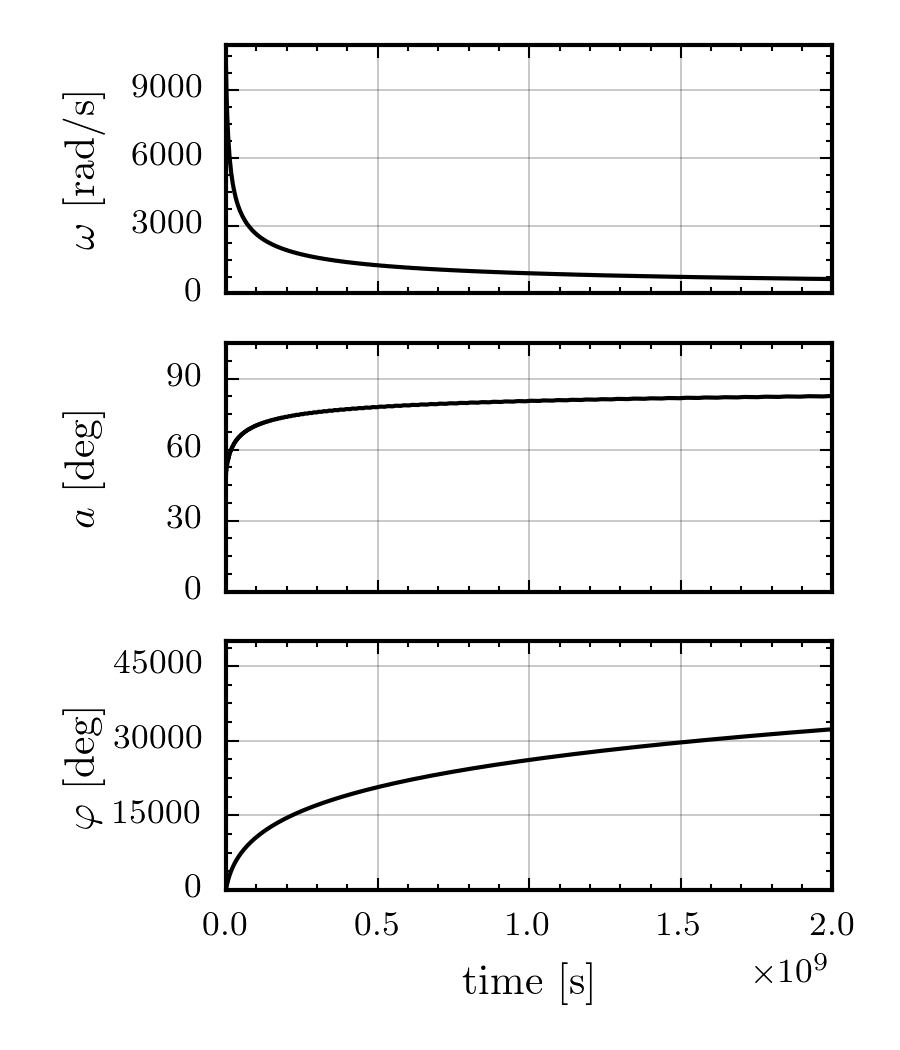
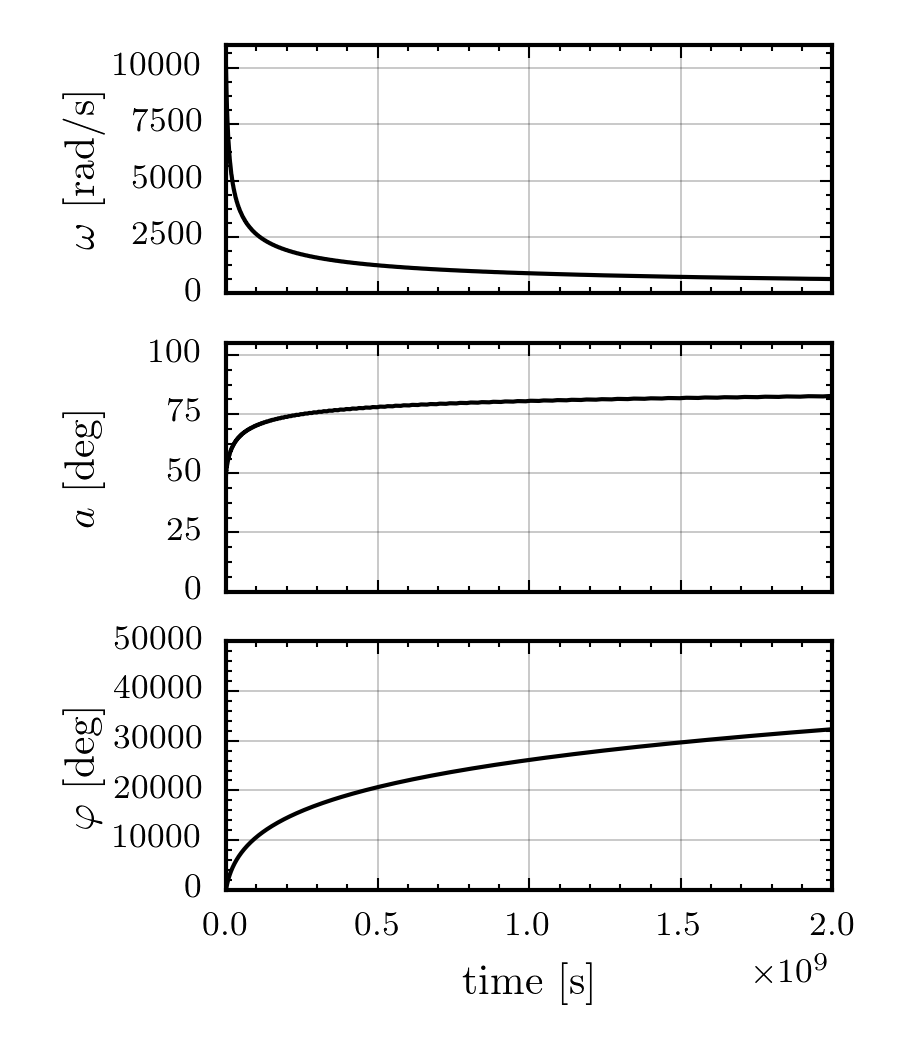
Final set of corrections to C3
1) Updates all plots to the new style and improves the tables

diff --git a/rotating_frame/rotating_frame.tex b/rotating_frame/rotating_frame.tex
@@ -256,11 +256,11 @@ for each ordering of the timescales.
 \renewcommand{\arraystretch}{1.2}
 \begin{table}[h]
 \centering
-\begin{tabular}[h]{|l|c|c|c|c|c|}\hline
-&$\epsilon_{\mathrm{I}}$ & $\epsilon_{\mathrm{A}} $ & $B_{0} $[Gauss] & $\tau_{\mathrm{S}}$ [s] & $ \tau_{\mathrm{P}}$  [s] \\ \hline
-Pulsar A & $ {1.0}\times 10^{-9} $ & $ {5.0}\times 10^{-11} $ & $ {1.3}\times 10^{13} $ & $ {9.0}\times 10^{6} $ & $ {9.8}\times 10^{5} $\\
-Pulsar B & $ {4.0}\times 10^{-11} $ & $ {5.0}\times 10^{-11} $ & $ {1.3}\times 10^{13} $ & $ {9.0}\times 10^{6} $ & $ {2.4}\times 10^{7} $\\
-Pulsar C & $ {1.0}\times 10^{-15} $ & $ {5.0}\times 10^{-11} $ & $ {1.3}\times 10^{13} $ & $ {9.0}\times 10^{6} $ & $ {9.8}\times 10^{11} $\\ \hline
+\begin{tabular}[h]{|c|c|c|c|c|c|}\hline
+Star &$\epsilon_{\mathrm{I}}$ & $\epsilon_{\mathrm{A}} $ & $B_{0} $[Gauss] & $\tau_{\mathrm{S}}$ [s] & $ \tau_{\mathrm{P}}$  [s] \\ \hline
+A & $ {1.0}\times 10^{-9} $ & $ {5.0}\times 10^{-11} $ & $ {1.3}\times 10^{13} $ & $ {9.0}\times 10^{6} $ & $ {9.8}\times 10^{5} $\\
+B & $ {4.0}\times 10^{-11} $ & $ {5.0}\times 10^{-11} $ & $ {1.3}\times 10^{13} $ & $ {9.0}\times 10^{6} $ & $ {2.4}\times 10^{7} $\\
+C & $ {1.0}\times 10^{-15} $ & $ {5.0}\times 10^{-11} $ & $ {1.3}\times 10^{13} $ & $ {9.0}\times 10^{6} $ & $ {9.8}\times 10^{11} $\\ \hline
 \end{tabular}
 \caption{Table of relevant values for the selected points. In calculating the
     magnetic fields and timescales, we have used a canonical value of
@@ -453,7 +453,7 @@ which are parameterised by the sign of $\dot{A}$:
 \item $\dot{A}>0$ The sphere grows with respect to the ellipsoid. In this case,
     the intersection circles will `close up' around the $\z$ axis. This
     agrees with the solution for $\chi=30^{\circ}$ given in
-    figure~\ref{fig: neutron star A_NA comparison}(a). The angle between
+    Figure~\ref{fig: neutron star A_NA comparison}(a). The angle between
     $\boldsymbol{\omega}$ and the $\z$ axis tends to zero while $\varphi$
     monotonically increases. This describes the spin-vectors following a circle
     about the $\z$ axis, which gradually decreases in radius.
@@ -689,8 +689,8 @@ $\hat{\boldsymbol{z}}$ axis. $\beta$ is then given by
               {2\epsA\sin\chi \cos\chi}\right).
 \label{eqn: beta}
 \end{equation}
-A schematic of the various angles and axes is given in
-figure~\ref{fig: schematic}
+In Figure~\ref{fig: schematic}, we provide a schematic of the various angles
+and relating the effective body frame to the body frame axes.
 \begin{figure}[ht]
 \centering
  \input{\thisdir/BetaSketch}
@@ -706,7 +706,7 @@ which is defined to be into the page.}
 The effective body frame is a simple rotation of the axis defined by the moment
 of inertia tensor to accommodate the effects of the anomalous torque.
 To understand when this becomes significant, we plot $\beta$ as a function of
-$|\epsA/\epsI|$ in figure~\ref{fig: beta}. When $|\epsA \ll
+$|\epsA/\epsI|$ in Figure~\ref{fig: beta}. When $|\epsA \ll
 \epsI|$, such that the anomalous torque effects are negligible, we
 recover the usual moment of inertia tensor. That is, $\beta=0$ or
 $\beta=\pi/2$, dependent on the sign of $\epsI$. This is a consequence
@@ -749,15 +749,14 @@ neutron stars.
 \centering
 \tabcolsep=0.11cm
 	\begin{tabular}[ht]{|c|c|c|c|c|c|c|c|c|}\hline
-Neutron star &  $\epsI$  & $\epsA $ & 	$B_{0} \; $[Gauss] & $\tauS$ [s] & $\tauA$ [s] & $ \tauP$  [s] & $\beta (\chi=30^{\circ})$ & $\beta(\chi=75^{\circ})$ \\ \hline
-A & $  1.0{\times} 10^{-9}  $ & $  5{\times} 10^{-9}  $ & $  1.3{\times} 10^{13}  $ & $  3.6{\times} 10^{8}  $ & $  1.3{\times} 10^{7}  $ & $  6.3{\times} 10^{5}  $ & $ -1.27^{\circ} $& $ -0.7^{\circ} $ \\
-B & $  0.4{\times} 10^{-10}  $ & $  5{\times} 10^{-9}  $ & $  1.3{\times} 10^{13}  $ & $  3.6{\times} 10^{8}  $ & $  1.3{\times} 10^{7}  $ & $  1.6{\times} 10^{7}  $ & $ -35.447^{\circ} $& $ -8.35^{\circ} $ \\
-C & $  1.0{\times} 10^{-15}  $ & $  5{\times} 10^{-9}  $ & $  1.3{\times} 10^{13}  $ & $  3.6{\times} 10^{8}  $ & $  1.3{\times} 10^{7}  $ & $  6.3{\times} 10^{11}  $ & $ -60.0^{\circ} $& $ -15.0^{\circ} $ \\ \hline
-	\end{tabular}}
-\caption{Table of relevant values for the selected points. In calculating the
-    magnetic fields and timescales, we have used a canonical value of
-    $R=1\times10^{6}$~cm for the radius and the initial value
-    of the spin frequency, $\omega_{0} = 1\times10^{4}$ rads/s.}
+Star &  $\epsI$  & $\epsA $ & 	$B_{0} \; $[Gauss] & $\tauS$ [s] & $\tauA$ [s] & $ \tauP$  [s] & $\beta (\chi=30^{\circ})$ & $\beta(\chi=75^{\circ})$ \\ \hline
+A & $ {1.0}{\times} 10^{-9} $ & $ {5.0}{\times} 10^{-11} $ & $ {1.3}{\times} 10^{13} $ & $ {9.0}{\times} 10^{6} $ & $ {1.3}{\times} 10^{7} $ & $ {9.8}{\times} 10^{5} $ & $ \text{-}1.3^{\circ} $& $ \text{-}0.69^{\circ} $ \\
+B & $ {4.0}{\times} 10^{-11} $ & $ {5.0}{\times} 10^{-11} $ & $ {1.3}{\times} 10^{13} $ & $ {9.0}{\times} 10^{6} $ & $ {1.3}{\times} 10^{7} $ & $ {2.4}{\times} 10^{7} $ & $ \text{-}35.0^{\circ} $& $ \text{-}8.4^{\circ} $ \\
+C & $ {1.0}{\times} 10^{-15} $ & $ {5.0}{\times} 10^{-11} $ & $ {1.3}{\times} 10^{13} $ & $ {9.0}{\times} 10^{6} $ & $ {1.3}{\times} 10^{7} $ & $ {9.8}{\times} 10^{11} $ & $ \text{-}60.0^{\circ} $& $ \text{-}15.0^{\circ} $ \\ \hline
+\end{tabular}}
+\caption{Table of relevant values for the selected points updated from
+Table~\ref{tab: A B C params} to include the value of $\beta$, as defined in
+Eqn.~\eqref{eqn: beta}.}
 \label{tab: A B C params beta}
 \end{table}
 
@@ -787,7 +786,7 @@ means that only three physical orderings exist:
 \end{enumerate}
 
 We can therefore update the phase space of possible solutions with the
-additional anomalous timescale; the result is given in figure~\ref{fig: phase
+additional anomalous timescale; the result is given in Figure~\ref{fig: phase
 space}.
 
 \begin{figure}[ht]
@@ -802,20 +801,24 @@ space}.
 \subsubsection{Neutron star A in region \texorpdfstring{$\tauS>\tauA>\tauP$}{}}
 \label{sec: A}
 
-We expect the alignment of the spin axis to agree with the findings in section
-\ref{sec: A_NA} and study the changes in behaviour due to the introduction of
-the anomalous torque. Working in the effective body frame rotates the
-solutions by a few degrees as shown in Table~\ref{tab: A B C params beta}.
-Plotted in figure~\ref{fig: neutron star A} are the spherical coordinates of the
-spin-vector in the effective body. This can be compared with the result
-in figure~\ref{fig: neutron star A_NA}, which is the same system without the anomalous
-torque.
+We expect the alignment of the spin axis to agree with the findings in
+Section~\ref{sec: A_NA} and study the changes in behaviour due to the
+introduction of the anomalous torque. Working in the effective body frame
+rotates the solutions (for star A) by a few degrees as shown in Table~\ref{tab:
+A B C params beta}.  Plotted in Figure~\ref{fig: neutron star A} are the
+spherical coordinates of the spin-vector in the effective body. This can be
+compared with the result in Figure~\ref{fig: neutron star A_NA}, which is the
+same system without the anomalous torque.
 
 \begin{figure}
 \centering
 \begin{tabular}{cc}
-    \subfloat[$\chi=30^{\circ}<\chi_{\textrm{cr}}$]{\includegraphics[width=0.45\textwidth]{{Spherical_Plot_Transform_chi_30.0_epsI_1.0e-9_epsA_5.0e-11_omega0_1.0e4_eta_1.0e-4}.png}} &
-    \subfloat[$\chi=70^{\circ}>\chi_{\textrm{cr}}$]{\includegraphics[width=0.45\textwidth]{{Spherical_Plot_Transform_chi_75.0_epsI_1.0e-9_epsA_5.0e-11_omega0_1.0e4_eta_1.0e-4}.png}}
+    \subfloat[$\chi=30^{\circ}<\chi_{\textrm{cr}}$]{\includegraphics[width=0.45\textwidth]
+{{Spherical_Plot_Transform_one-component-model_eta_0.00e+00_chi0_3.0000000000e+01_omega0_1.00e+04_epsI3_1.00e-09_epsA_5.00e-11_a0_5.0000000000e+01_T_1.00e+10_epsI1_0.00e+00_AnomTorque_1}.png}} &
+% {{Spherical_Plot_Transform_chi_30.0_epsI_1.0e-9_epsA_5.0e-11_omega0_1.0e4_eta_1.0e-4}.png}} &
+    \subfloat[$\chi=70^{\circ}>\chi_{\textrm{cr}}$]{\includegraphics[width=0.45\textwidth]
+{{Spherical_Plot_Transform_one-component-model_eta_0.00e+00_chi0_7.5000000000e+01_omega0_1.00e+04_epsI3_1.00e-09_epsA_5.00e-11_a0_5.0000000000e+01_T_1.00e+10_epsI1_0.00e+00_AnomTorque_1}.png}}
+%{{Spherical_Plot_Transform_chi_75.0_epsI_1.0e-9_epsA_5.0e-11_omega0_1.0e4_eta_1.0e-4}.png}}
 \end{tabular}
 \caption{Plot of the spherical coordinates of the spin-vector during the
 spin-down of neutron star A.}
@@ -824,7 +827,7 @@ spin-down of neutron star A.}
 
 The final state alignment agrees well with results neglecting the anomalous
 torque for both values of $\chi$. For $\chi = 30^{\circ}$, the intermediate
-behaviour appears similar to those shown in section~\ref{sec: A_NA}. For
+behaviour appears similar to those shown in Section~\ref{sec: A_NA}. For
 $\chi=75^{\circ}$, we have a large discontinuity in the
 solution suggesting a significant difference between solutions when including
 the anomalous torque. To understand the cause of this, we return to the
@@ -853,12 +856,12 @@ bounding the radius of the sphere by
 2E\lambda_{-}<J^{2}<2E\lambda_{+}.
 \end{equation}
 
-In the case of a biaxial moment of inertia, we found that solution for which both
-conservation laws are satisfied, corresponded to circles around the $\z$ axis.
+In the case of a biaxial moment of inertia, we found that the solution for which both
+conservation laws are satisfied corresponded to circles around the $\z$ axis.
 Now that we have a triaxial moment of inertia tensor (due to the addition of the anomalous torque),
 the solutions correspond to the intersection of the triaxial ellipsoid with the
 sphere, for which there are three distinct types of
-intersections as drawn in figure~\ref{fig: sphere ellipsoid}.
+intersections as drawn in Figure~\ref{fig: sphere ellipsoid}.
 \begin{figure}[ht]
 \centering
 \begin{tabular}{ccc}
@@ -893,7 +896,7 @@ the radius of the sphere and the sizes of the three semi-axes of the ellipsoid:
 
 Now that we have understood the possible types of solution via the intersections
 of the sphere and ellipsoid, we can understand the cause of the unusual behaviour
-in Figure~\eqref{fig: neutron star A}(b). First, we note that
+in Figure~\ref{fig: neutron star A}(b). First, we note that
 all simulations begin in the same initial state. As previously observed,
 changing $\chi$ through the critical value changes the sign of $\dot{A}$ and
 hence whether the sphere will grow or shrink with respect to the ellipsoid. So
@@ -914,12 +917,12 @@ In Figure~\ref{fig: neutron star A}(b), the discontinuity is in fact exactly the
 when the solution changes the axis of precession.
 
 To better understand this, we plot the data from the $\chi=75^{\circ}$
-simulation (\ref{fig: neutron star A}(b)) in figure~\ref{fig: neutron star A
+simulation (Figure~\ref{fig: neutron star A}(b)) in Figure~\ref{fig: neutron star A
 3D}. Firstly in (a), we project the spherical coordinates onto the unit sphere
 and choose three short sections of data. This shows that at early times (in
 blue) the solution precesses about the $\3$ axis. During the discontinuity (in
 red) the solution shows similarities with the $J^{2}=2EI_{0}$ case from
-figure~\ref{fig: sphere ellipsoid}. Finally, at late times, in black, the
+Figure~\ref{fig: sphere ellipsoid}. Finally, at late times, in black, the
 solution precesses about the~$\1$~axis. In Figure~\ref{fig: neutron star A
 3D}(b) we also plot the solution in 3D during the apparent discontinuity. This
 again shows that the solution goes through a change of the axis about which it
@@ -952,30 +955,31 @@ $a$ tending to a constant, non-zero value with the nutation amplitude
 spin-vector has not aligned with a principal axis of the moment of inertia,
 this was interpreted as the spin-vector undergoing persistent precession.
 Working in the body frame axis, we confirm that $a\ne\pi/2$ at the end of the
-evolution in figure~\ref{fig: neutron star B}(a).
+evolution in Figure~\ref{fig: neutron star B}(a).
 
-Transforming to the effective body frame in Figure~\ref{fig: neutron star B}(b), we find
-that the spin-vector in fact aligns with the principal axis of the effective
-moment of inertia tensor ($a' \rightarrow \pi /2$).  Therefore, the persistent
-precession angle found by Melatos is precisely the angle $\beta$.  The
-spin-vector has aligned with the principal axis of the effective
+Transforming to the effective body frame in Figure~\ref{fig: neutron star
+B}(b), we find that the spin-vector in fact aligns with the principal axis of
+the effective moment of inertia tensor ($a' \rightarrow \pi /2$).  Therefore,
+the persistent precession angle found by Melatos is precisely the angle
+$\beta$.  The spin-vector has aligned with the principal axis of the effective
 moment of inertia tensor associated with the smallest eigenvalue.  Since both
-the polar angle $a'$ and azimuthal angle $\varphi'$ are constant, we argue
-that the angular velocity is constant and this is not persistent precession:
-the spin-vector always aligns with the effective body frame and in doing so
-the precession of the body is damped.
+the polar angle $a'$ and azimuthal angle $\varphi'$ are constant (this is also
+true in the body frame), we argue that the angular velocity is constant and
+this is not persistent precession: the spin-vector always aligns with the
+effective body frame and in doing so the precession of the body is damped.
 
 \begin{figure}[ht]
 \centering
 \begin{tabular}{cc}
     \subfloat[In the body frame axis]
              {\includegraphics[width=0.45\textwidth]
-             {{Spherical_Plot_chi_75.0_epsI_4.0e-11_epsA_5.0e-11_omega0_1.0e4_t1_2.0e8}.png}} &
+{{Spherical_Plot_one-component-model_eta_0.00e+00_chi0_7.5000000000e+01_omega0_1.00e+04_epsI3_4.00e-11_epsA_5.00e-11_a0_5.0000000000e+01_T_2.00e+08_n_1000_epsI1_0.00e+00_AnomTorque_1}.png}}
     \subfloat[In the effective body frame axis]
              {\includegraphics[width=0.45\textwidth]
-             {{Spherical_Plot_Transform_chi_75.0_epsI_4.0e-11_epsA_5.0e-11_omega0_1.0e4_t1_2.0e8}.png}}
+{{Spherical_Plot_Transform_one-component-model_eta_0.00e+00_chi0_7.5000000000e+01_omega0_1.00e+04_epsI3_4.00e-11_epsA_5.00e-11_a0_5.0000000000e+01_T_2.00e+08_n_1000_epsI1_0.00e+00_AnomTorque_1}.png}}
 \end{tabular}
-\caption{Plot of the spherical coordinates of $\boldsymbol{\omega}$ for neutron star B.
+\caption{Plot of the spherical coordinates of the spin-vector during the spin-down
+         of neutron star B.
          Crucially, at late times the polar angles $a$ and $a'$ differ by a
          factor $8.35^{\circ}$, the value of $\beta$ in Table~\ref{tab: A B C params beta}.}
 \label{fig: neutron star B}
@@ -986,8 +990,8 @@ the precession of the body is damped.
 \label{sec: C}
 
 In Figure~\ref{fig: neutron star C}, for all values of $\chi$, the spin-vector is found
-to align with the effective body frame $\1$ axis.  In this limit ($\epsA \gg
-\epsI$ and so from figure~\ref{fig: beta}), we see that the $\1$ axis
+to align with the effective body frame $\1$ axis.  In this limit where $\epsA \gg
+\epsI$, from Figure~\ref{fig: beta}, we see that the $\1$ axis
 aligns with the magnetic dipole. This agrees with the results for a spherical
 star in which $\epsI \rightarrow 0$. The addition of the anomalous
 torque introduces oscillations on the anomalous torque timescale.
@@ -996,12 +1000,12 @@ torque introduces oscillations on the anomalous torque timescale.
 \centering
 \begin{tabular}{cc}
     \subfloat[$\chi=30^{\circ}<\chi_{\textrm{cr}}$]{\includegraphics[width=0.45\textwidth]
-             {{Spherical_Plot_Transform_chi_30.0_epsI_1.0e-15_epsA_5.0e-11_omega0_1.0e4_t1_1e8}.png}} &
+{{Spherical_Plot_Transform_one-component-model_eta_0.00e+00_chi0_3.0000000000e+01_omega0_1.00e+04_epsI3_1.00e-15_epsA_5.00e-11_a0_5.0000000000e+01_T_1.00e+08_n_1000_epsI1_0.00e+00_AnomTorque_1}.png}}
     \subfloat[$\chi=75^{\circ}>\chi_{\textrm{cr}}$]{\includegraphics[width=0.45\textwidth]
-             {{Spherical_Plot_Transform_chi_75.0_epsI_1.0e-15_epsA_5.0e-11_omega0_1.0e4_t1_1e8}.png}}
+{{Spherical_Plot_Transform_one-component-model_eta_0.00e+00_chi0_7.5000000000e+01_omega0_1.00e+04_epsI3_1.00e-15_epsA_5.00e-11_a0_5.0000000000e+01_T_1.00e+08_n_1000_epsI1_0.00e+00_AnomTorque_1}.png}}
 \end{tabular}
-\caption{Plot of the spherical coordinates of $\boldsymbol{\omega}$ for neutron star
-C. }
+\caption{Plot of the spherical coordinates of the spin-vector during the
+spin-down of neutron star C.}
 \label{fig: neutron star C}
 \end{figure}
 
@@ -1049,7 +1053,7 @@ this thesis.
 %
 %Using a large value of the initial spin period will skew the phase diagrams in
 %Figure~\ref{fig: phase space}. We therefore present a more realistic phase
-%diagram in figure~\ref{fig: phase space for actual spin frequency} for a
+%diagram in Figure~\ref{fig: phase space for actual spin frequency} for a
 %realistic spin frequency of $\nu=1.6$~Hz. The strongest candidates displaying a
 %periodic signal, which may be explained by precession, were collected in
 %\citet{Lyne2010}. The 18 neutron stars where listed along with their: spin frequency,
@@ -1081,7 +1085,7 @@ this thesis.
 %are due to precession.}
 %\label{fig: phase space for actual spin frequency}
 %\end{figure}
-%Plotting the results in figure~\ref{fig: phase space for actual spin frequency} we observe that all neutron stars exist in Region A of the phase diagram.
+%Plotting the results in Figure~\ref{fig: phase space for actual spin frequency} we observe that all neutron stars exist in Region A of the phase diagram.
 %
 %
 %\subsection{Future work}
@@ -1112,9 +1116,9 @@ timescales as
 \begin{align}
 \tauP(t)&=\frac{2\pi}{\epsilon_{I}\omega(t)}, \\
 \tauA(t)&=\frac{2\pi}{\epsilon_{A}\omega(t)}, \\
-\tauS(t)&=\frac{3c}{2R}\frac{2\pi}{\epsilon_{A}\omega(t)^{2}},\\
+\tauS(t)&=\frac{3c}{2R}\frac{2\pi}{\epsilon_{A}\omega(t)^{2}},
 \end{align}
-only $\tauS$ could `cross' with the other two timescales since the spin-down
+only $\tauP$ could `cross' with the other two timescales since the spin-down
 and anomalous timescales obey $\tauS>\tauA$ provided that
 \begin{equation}
 \omega(t)>\frac{3c}{2R}.
